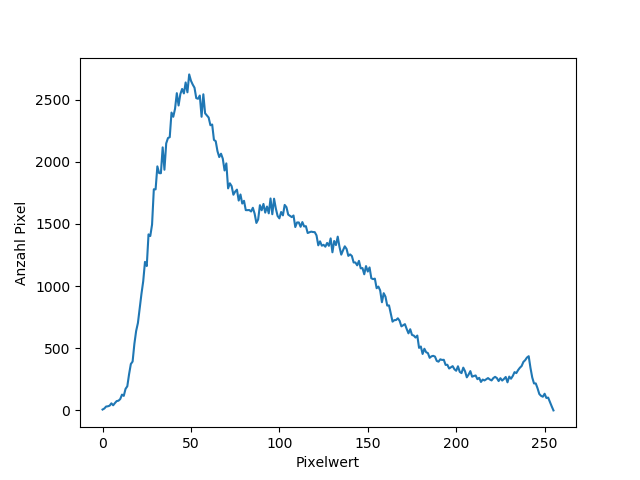
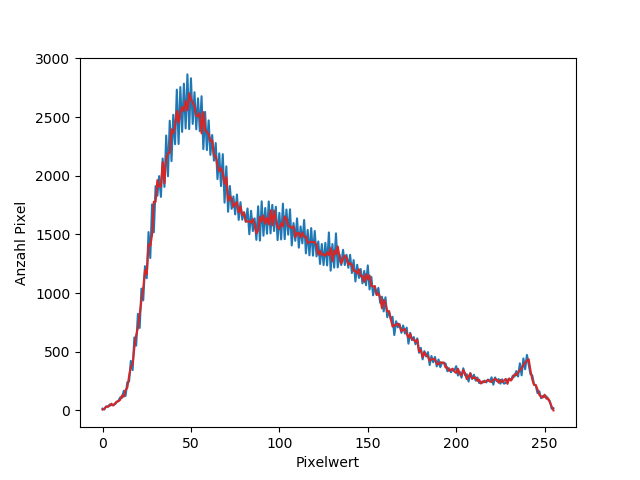
Histogramm-Angriff verbesserte grafische Darstellung

diff --git a/Steganalyse/Steganalyse_HistogrammAngriff.py b/Steganalyse/Steganalyse_HistogrammAngriff.py
@@ -1,6 +1,23 @@
 from PIL import Image
 import matplotlib.pyplot as plot
 
+img = Image.open("katze_encoded.png")
+img = img.convert('L')
+width, height = img.size
+pixel_map = img.load()
+
+encoded_img = Image.new(img.mode, img.size)
+X = []
+Y = []
+for pixel_value in range(256):
+    count = 0
+    for y in range(height):
+        for x in range(width):
+            if pixel_map[x, y] == pixel_value:
+                count += 1
+    X.append(pixel_value)
+    Y.append(count)
+plot.plot(X,Y)
 
 img = Image.open("katze_gs.png")
 img = img.convert('L')
@@ -18,7 +35,7 @@ for pixel_value in range(256):
                 count += 1
     X.append(pixel_value)
     Y.append(count)
-plot.plot(X,Y)
+plot.plot(X,Y,'C3')
 plot.xlabel("Pixelwert")
 plot.ylabel("Anzahl Pixel")
 plot.savefig('histogramm.png',dpi = 100);
